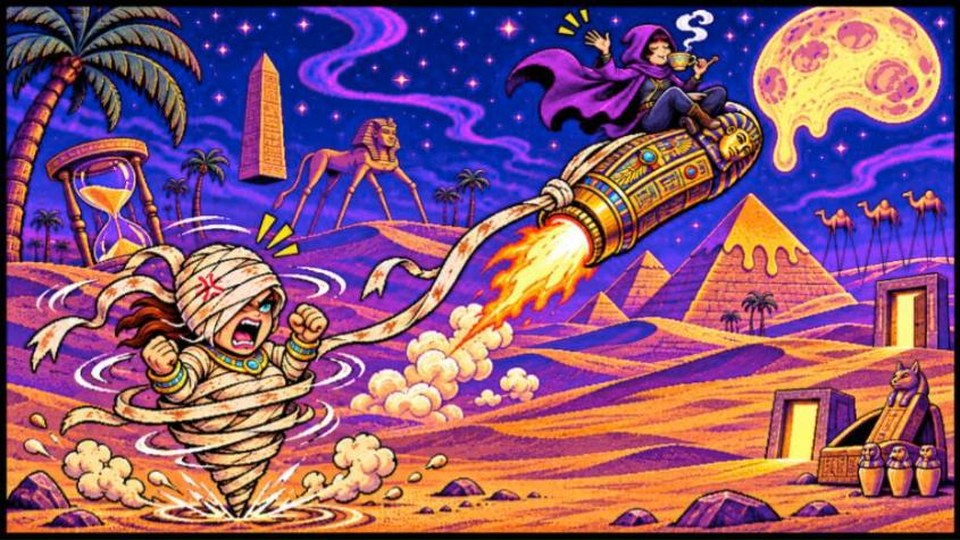
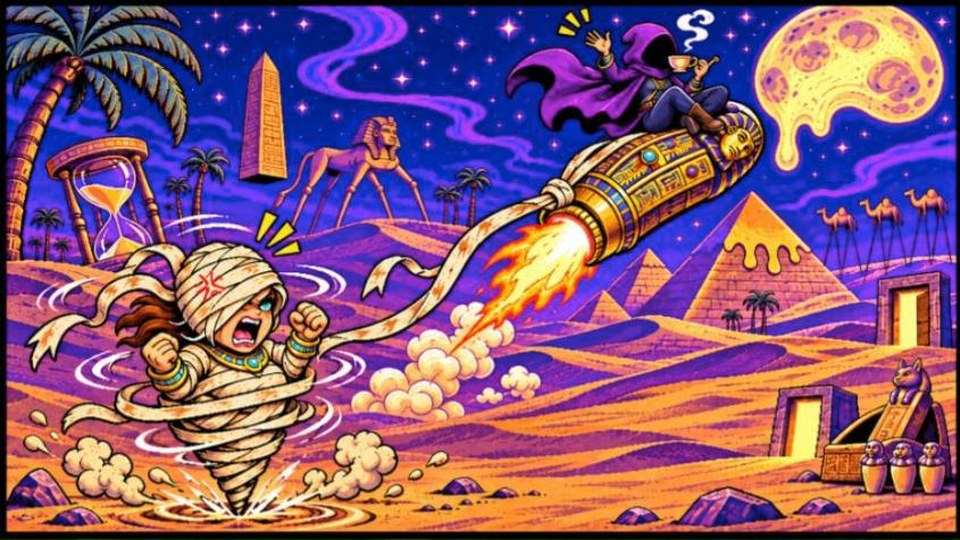
Fuga dall'Egitto: viso dell'incappucciato tutto in ombra, resto della vignetta invariato (ARCMUM3)
Claude-Session: https://claude.ai/code/session_01QVsszwz6X4TDpMSHuDK4xv

diff --git a/sw.js b/sw.js
@@ -1,5 +1,5 @@
 // Lottatori di Strada - funziona anche senza rete e si aggiorna da solo.
-const VERSIONE='lds-188';
+const VERSIONE='lds-189';
 const FILE=['./','./index.html','./manifest.webmanifest','./icona-192.png','./icona-512.png'];
 self.addEventListener('install',e=>{ e.waitUntil(caches.open(VERSIONE).then(c=>c.addAll(FILE))); self.skipWaiting(); });
 self.addEventListener('activate',e=>{ e.waitUntil(caches.keys().then(k=>Promise.all(k.filter(x=>x!==VERSIONE).map(x=>caches.delete(x)))).then(()=>self.clients.claim())); });
